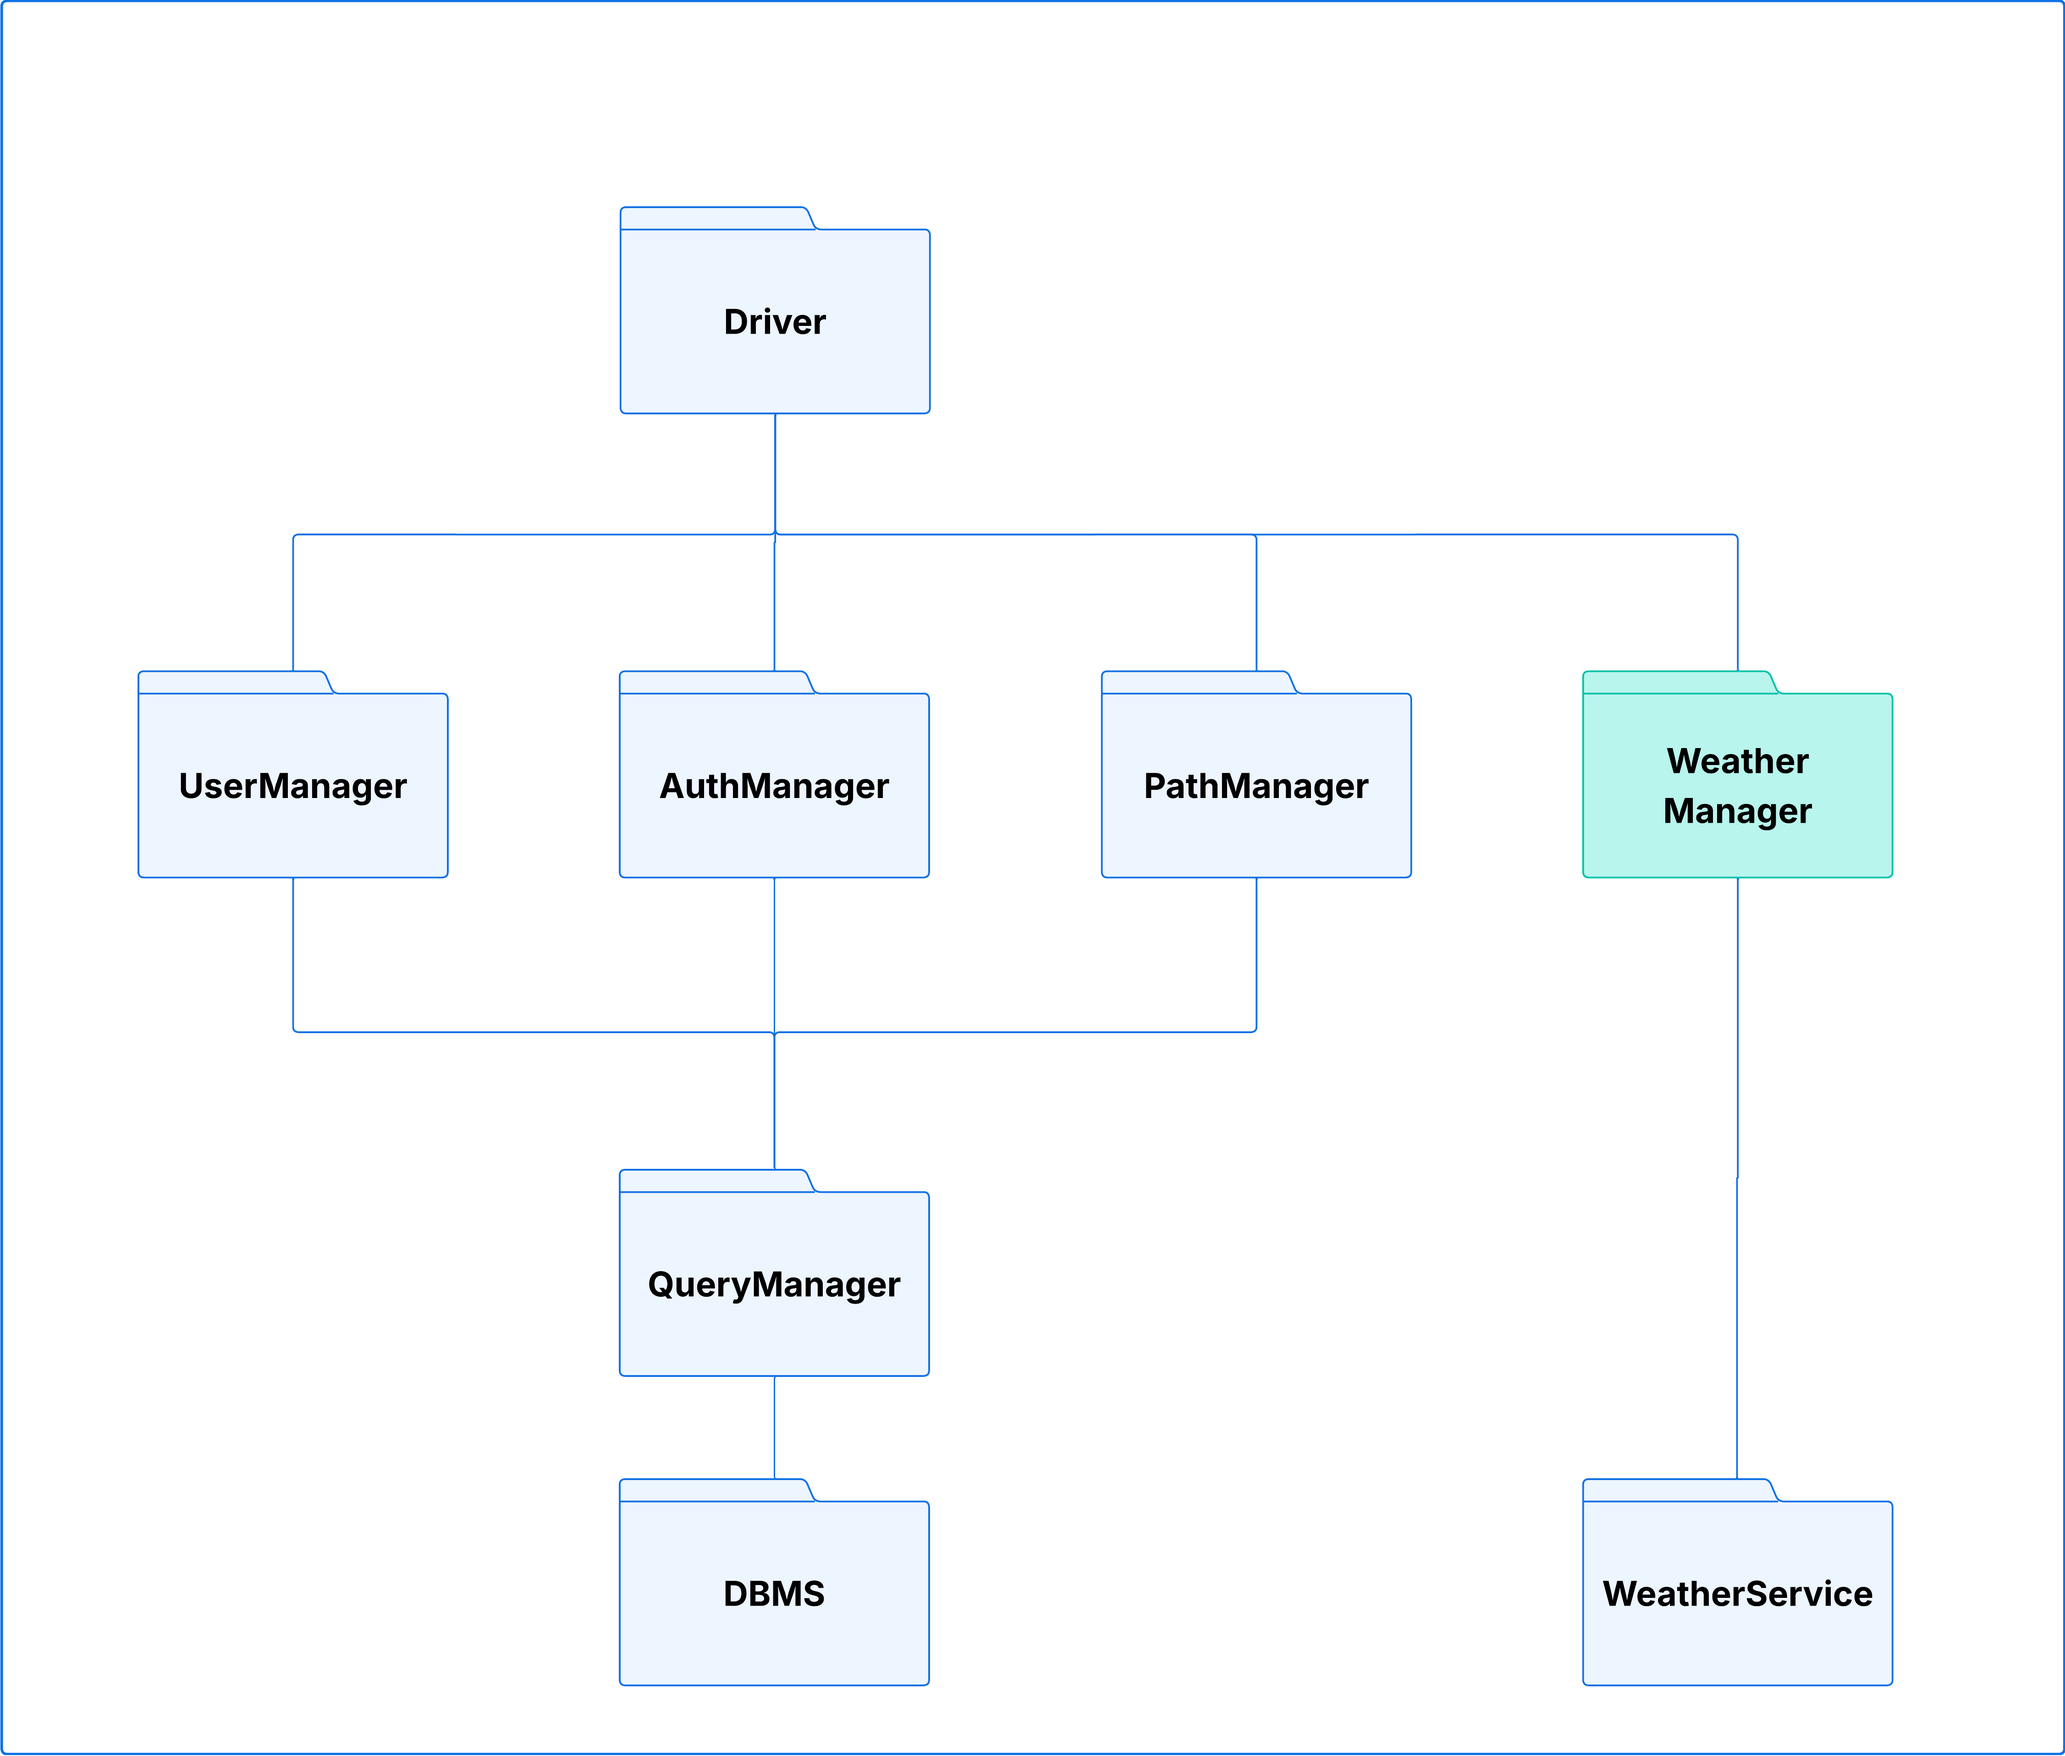
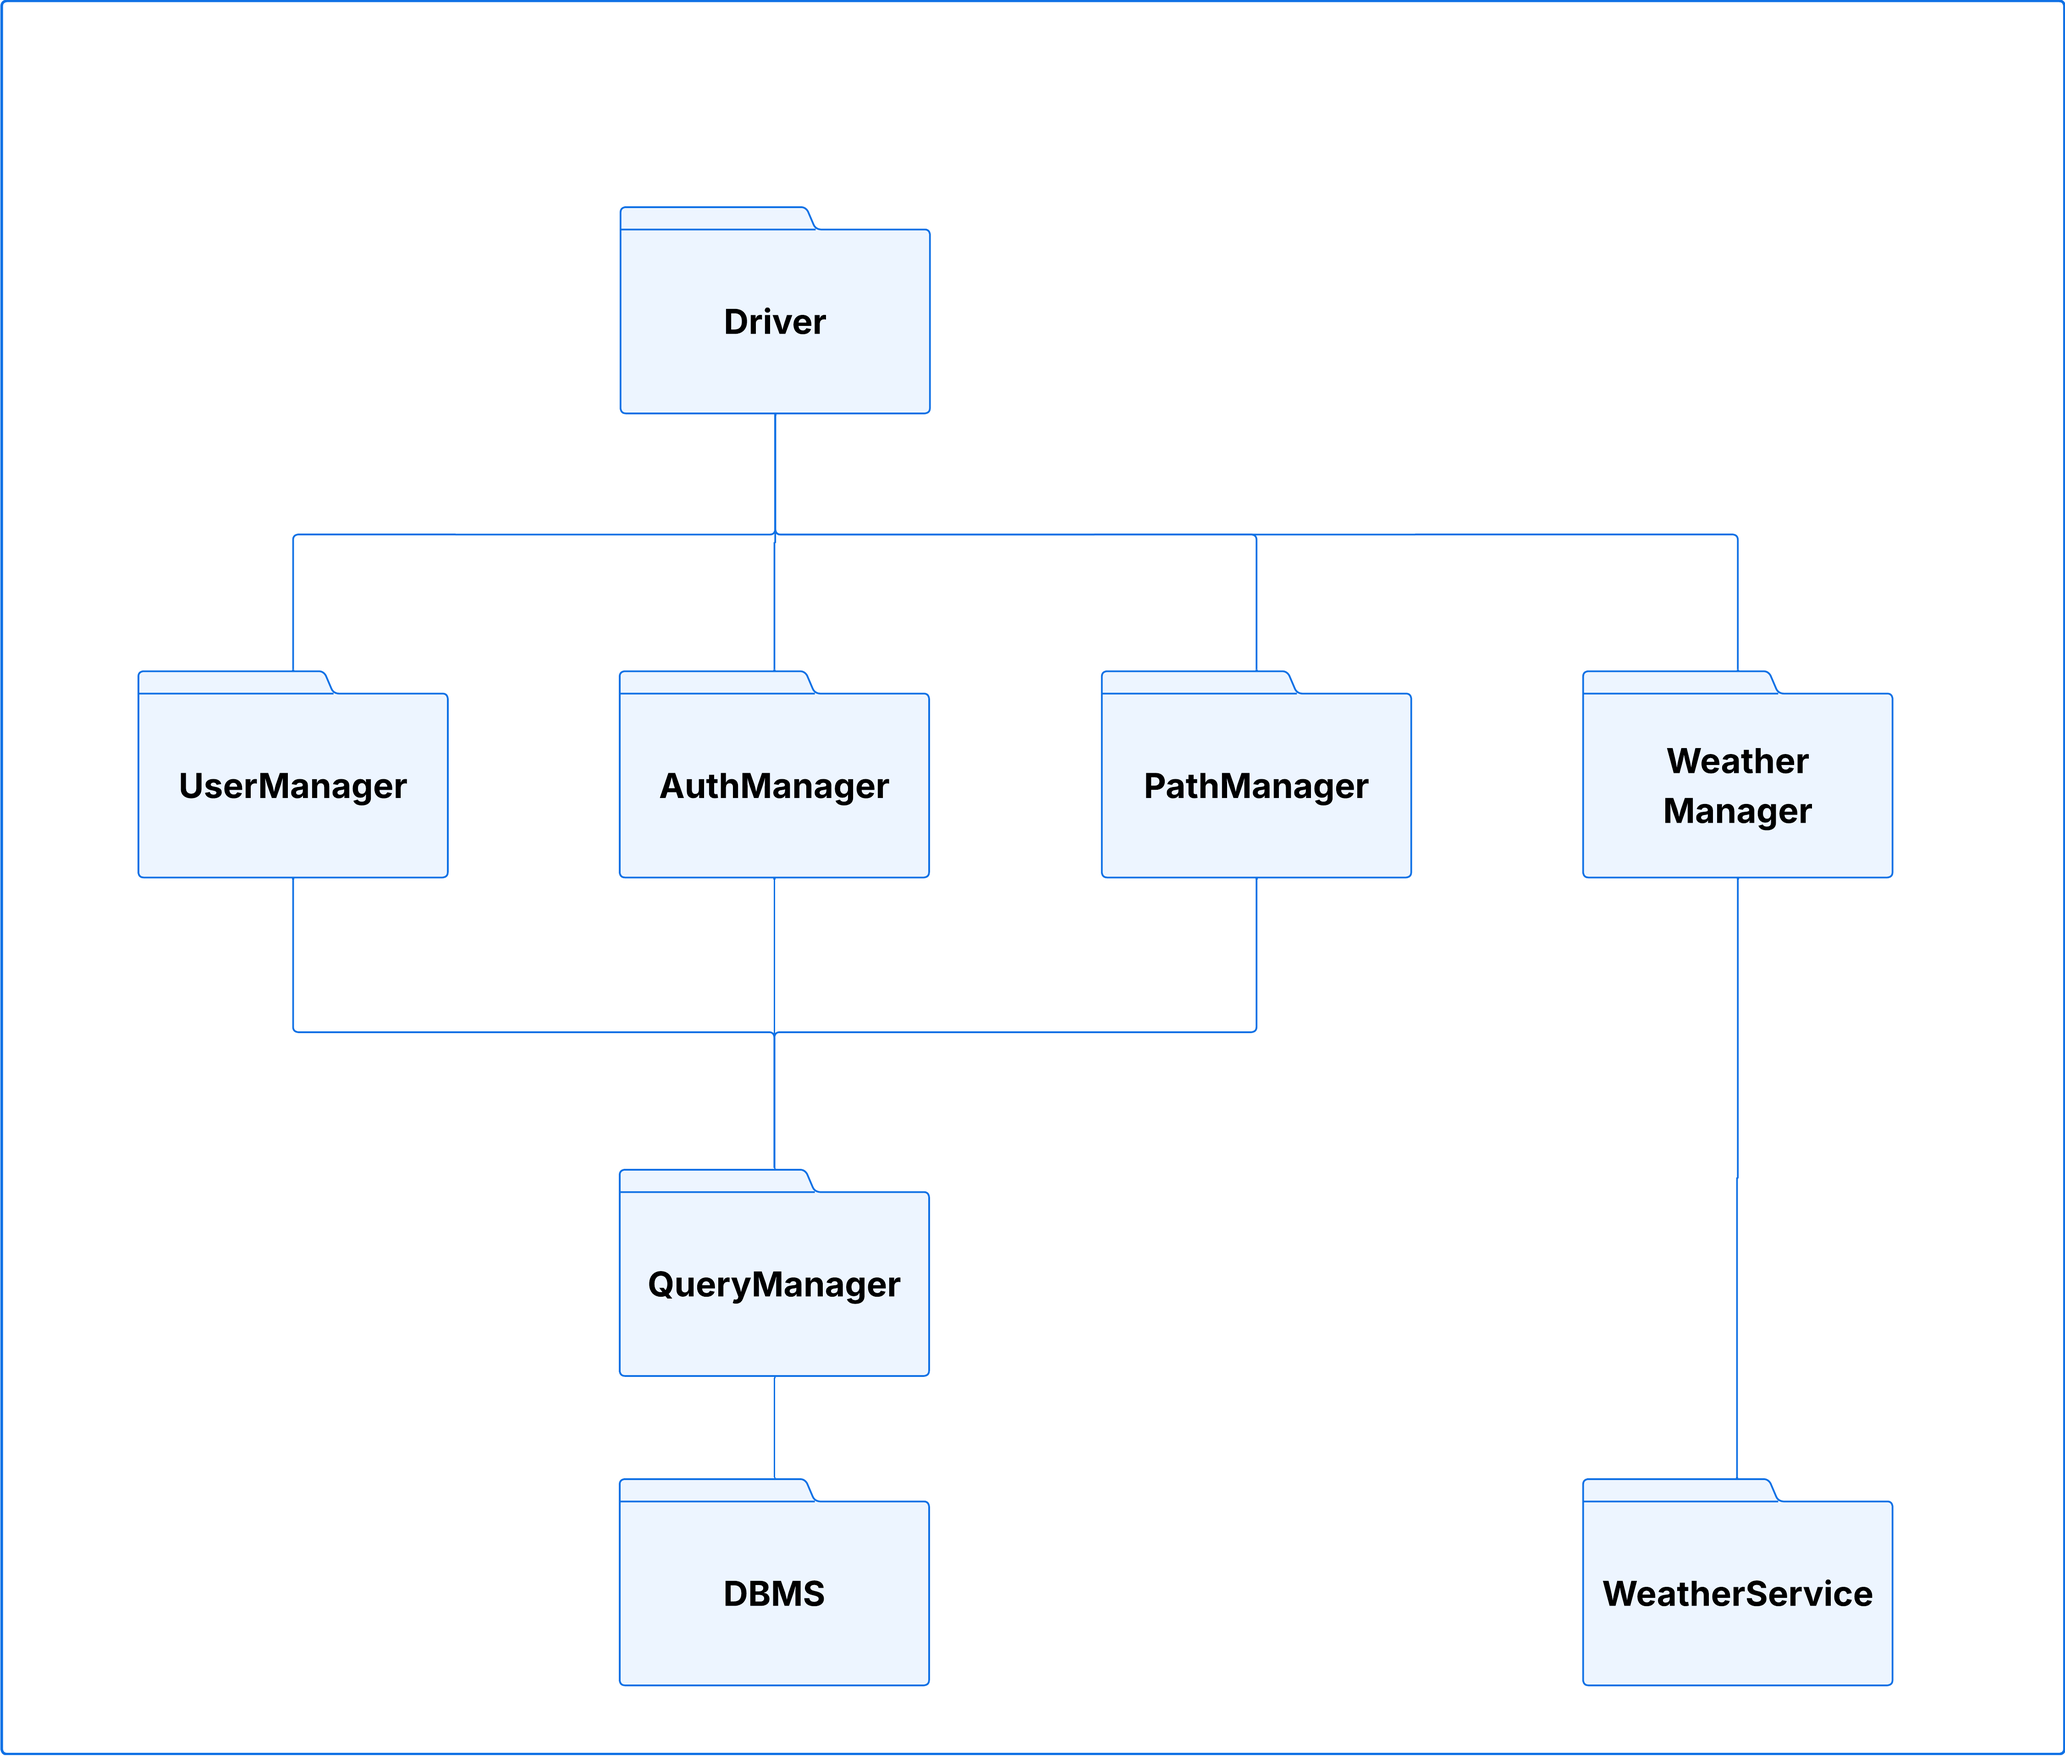
Deleted the dependency between TripManager and WeatherManager. Updated images to reflect the changes

Changed region(s): [[0.7458, 0.3727, 0.9323, 0.5281]]

diff --git a/DD/Files/implementation_integration_test.tex b/DD/Files/implementation_integration_test.tex
@@ -25,7 +25,7 @@ Before starting the coding of modules, the development environment will be set u
 \end{itemize}
 
 \subsection{Implementation Order}
-The implementation order of software components reflects the identified dependencies:
+The implementation order of software components will be as follows:
 \begin{enumerate}
     \item \textbf{Data Access Layer}: Implementation of the \texttt{QueryManager} and database configuration.
     \item \textbf{Core Services}: Development of \texttt{AuthManager} and \texttt{UserManager} for identity management.
@@ -58,8 +58,9 @@ The test driver will simulate query requests (CRUD) to verify the correct connec
 
 
 The \texttt{AuthManager} and \texttt{UserManager} are integrated next. These components are fundamental to ensure that 
-subsequent operations are performed by authenticated users. The driver will simulate registration, login, and profile management 
-flows, verifying that the \texttt{QueryManager} correctly persists credentials and user data.
+subsequent operations are performed by authenticated users. The driver will simulate registration, login, logout, and profile management 
+flows, verifying that the \texttt{QueryManager} correctly persists credentials and user data and that token generation, validation, and error conditions 
+(e.g., duplicate e-mails, invalid credentials) are handled consistently.
 
 \vspace{1cm}
 \begin{figure}[H]
@@ -71,9 +72,10 @@ flows, verifying that the \texttt{QueryManager} correctly persists credentials a
 
 
 \newpage
-In parallel, the \texttt{WeatherManager} is integrated. Being a module that primarily interacts with an external service 
-(Weather Service API) and has minimal internal dependencies, it can be integrated and tested independently. 
-The driver will verify the correct reception and parsing of meteorological data.
+In parallel, the \texttt{WeatherManager} is integrated. As a component that primarily interacts with an external 
+Weather Service API and has minimal internal dependencies, it can be tested independently. The driver will simulate 
+successful and failing API calls to verify the correct parsing of meteorological data, the handling of timeouts and HTTP 
+errors, and the propagation of meaningful error codes when the external service is unavailable.
 
 \vspace{1cm}
 \begin{figure}[H]
@@ -85,8 +87,9 @@ The driver will verify the correct reception and parsing of meteorological data.
 
 
 We proceed with the integration of the \texttt{PathManager}. This component is crucial for BBP's core logic (path management). 
-The driver will test the creation of new paths and route calculation logic, interacting with the \texttt{QueryManager} for 
-retrieving geospatial data.
+The driver will test the creation of new paths and the route calculation process, which relies on geospatial data retrieved 
+via the \texttt{QueryManager}. Integration tests will also verify that the \texttt{PathManager} correctly computes and ranks 
+candidate routes using stored path and report information, and properly handles corner cases such as missing or incomplete data.
 
 \vspace{1cm}
 \begin{figure}[H]
@@ -97,8 +100,10 @@ retrieving geospatial data.
 \end{figure}
 
 \vspace{1cm}
-The \texttt{TripManager} is added next. This component has dependencies on the \texttt{WeatherManager} 
-(to associate weather data with trips). The integration verifies that, upon closing a trip, the data is correctly enriched with meteorological information and saved to the database.
+The \texttt{TripManager} is added next. This module manages user trips and relies on both the \texttt{PathManager} and 
+the \texttt{WeatherManager} to associate route and weather data with each trip. Integration tests will verify that raw trip 
+samples and metadata are correctly stored, that each trip is linked to the selected path and corresponding weather snapshot, 
+and that a complete trip summary is generated upon closure, even if the external weather service is temporarily unavailable.
 
 \begin{figure}[H]
     \centering
@@ -108,9 +113,9 @@ The \texttt{TripManager} is added next. This component has dependencies on the \
 \end{figure}
 
 
-After the TripManager, we integrate the \texttt{ReportManager}. This module allows users to report obstacles. 
-Tests will verify that reports are correctly associated with existing paths (managed by the \texttt{PathManager}) 
-and users (managed by the \texttt{UserManager}).
+After the \texttt{TripManager}, we integrate the \texttt{ReportManager}. This module allows users to report obstacles. 
+Integration tests will verify that reports are correctly linked to existing users and paths, that attempts to create reports 
+for non-existing entities and that updates and confirmations are properly propagated to the \texttt{PathManager}.
 \begin{figure}[H]
     \centering
     \includegraphics[width=0.85\textwidth]{../Images/iit/iit6.png}
@@ -122,6 +127,8 @@ and users (managed by the \texttt{UserManager}).
 The backend system is completed with the addition of the \texttt{StatsManager}. This component aggregates data generated 
 by the user's device to provide statistics. Being the final logical module, its integration allows testing complex data 
 flows traversing the entire application domain.
+Integration tests will exercise end-to-end interactions involving trips, paths, reports, and confirmations to ensure that the 
+computed aggregates are consistent with the underlying data and remain efficient on realistic data volumes.
 
 \vspace{1cm}
 \begin{figure}[H]
@@ -145,8 +152,11 @@ correct components (\texttt{Auth}, \texttt{User}, \texttt{Trip}, etc.).
 \end{figure}
 
 
-Finally, the test driver is removed and from now the interaction is performed between the mobile device, the API Gateway, 
+Finally, the test driver is removed and from now on the interaction is performed between the mobile device, the API Gateway, 
 and all backend services, including real device sensors (GPS).
+At this final stage, integration tests will be executed end-to-end by exercising the main use cases from the mobile client, checking 
+that interactions involving device sensors, the API Gateway, backend services, and the database behave as described in the Runtime View 
+sequence diagrams.
 
 \vspace{1cm}
 \begin{figure}[H]
